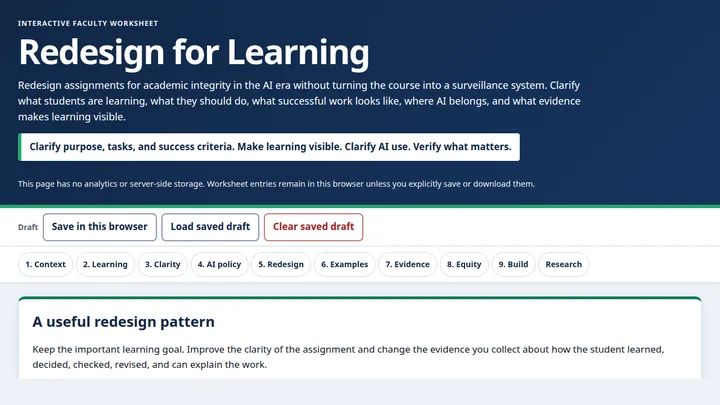
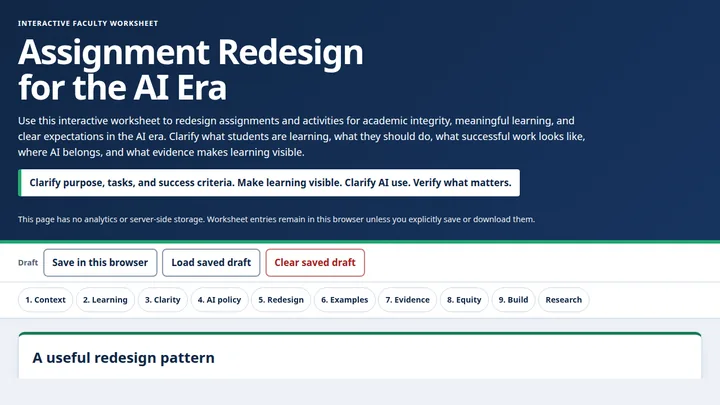
Follow the worksheet's renamed title, and refresh its screenshot
The worksheet page is now titled "Assignment Redesign for the AI Era", so the card
uses that wording and the file name in the first sentence of the description is no
longer implied by the title.

Its thumbnail was captured before the page was rewritten and still carried the old
title in the header of the image, so it has been recaptured from the current page.

A shorter title also made the cards shorter, so the common height was re-tuned
from 407 to 386 pixels. All seven boxes still measure the same and the buttons
still line up. Page height is 1866 pixels.

Lighthouse: accessibility 100, best practices 100, SEO 100, performance 100.

diff --git a/docs/index.html b/docs/index.html
@@ -205,7 +205,7 @@
      in the AI section. Only when the cards sit in columns: on a phone the natural
      height is used, and a fixed floor would just add empty space. */
   @media (min-width:620px){
-    .card{min-height:407px}
+    .card{min-height:386px}
   }
 
   @media (max-width:560px){
@@ -277,7 +277,7 @@
           <img src="img/assignment.webp" alt="" loading="lazy" width="720" height="405">
         </a>
         <div class="card-body">
-          <h3>Redesign for Learning &mdash; Academic Integrity in the AI Era</h3>
+          <h3>Assignment Redesign for the AI Era</h3>
           <p>An interactive worksheet for redesigning assignments around academic integrity: what students are learning, what successful work looks like, and where AI belongs.</p>
             <div class="go">
               <a href="assignment.html">Open the worksheet
